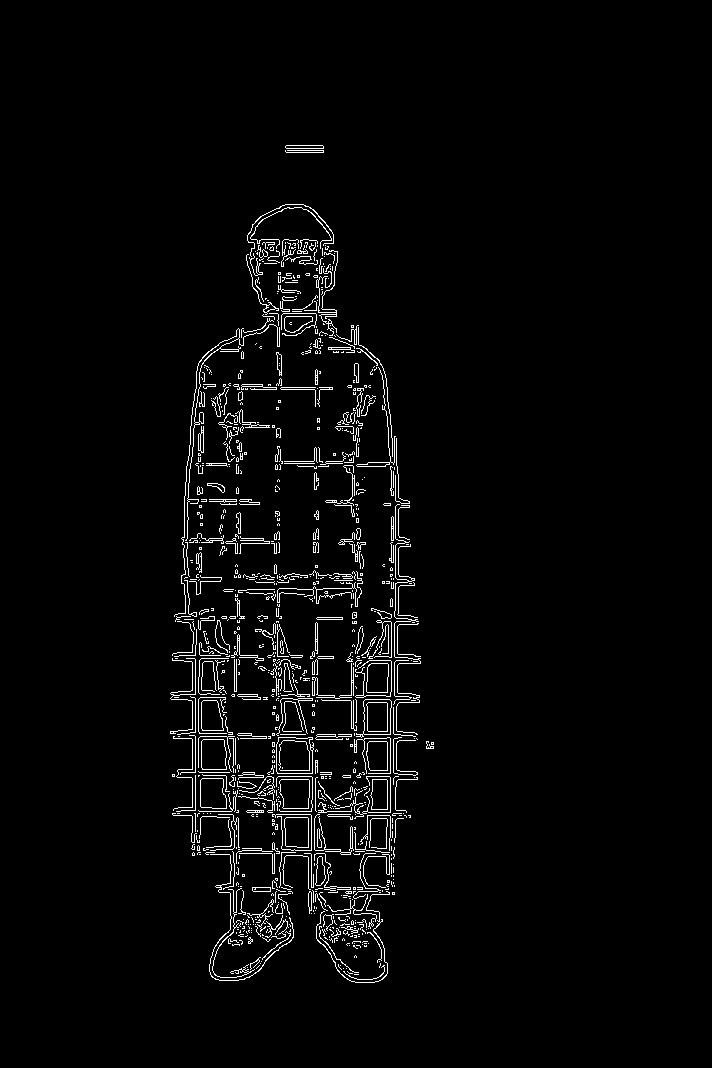
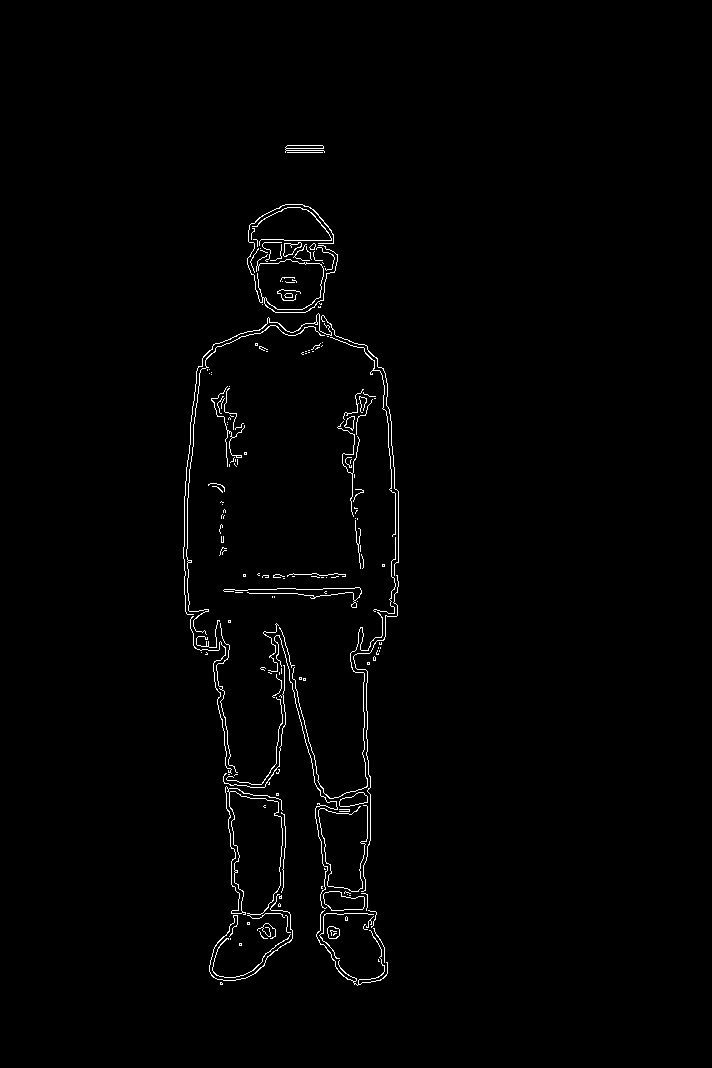
모폴로지 연산을 통한 노이즈 제거

Changed region(s): [[0.2472, 0.4635, 0.5871, 0.927], [0.2781, 0.2163, 0.5562, 0.4635], [0.4326, 0.4326, 0.4635, 0.4635]]

diff --git a/ObjectDetect.py b/ObjectDetect.py
@@ -1,7 +1,16 @@
 import cv2
+import numpy as np
 import unittest2 as unittest
 from matplotlib import pyplot as plt
 import ColorDetect
+
+def Show(image,key=0):
+    cnt = len(image)
+    print cnt
+    for k in range(cnt):
+        string = 'image' + str(k)
+        cv2.imshow(string, image[k])
+    cv2.waitKey(key)
 
 def DetectObjectFromImage(beforeImage, afterImage):
     beforeGrayImage = cv2.imread(beforeImage, 0)
@@ -13,6 +22,11 @@ def DetectObjectFromImage(beforeImage, afterImage):
     mask = ColorDetect.ColorDetectFromImage(beforeImage)
 
     # plt.imshow(afterGrayImage)
+
+    kernel = np.ones((7, 7), np.uint8)
+    beforeGrayImage = cv2.morphologyEx(beforeGrayImage,cv2.MORPH_OPEN,kernel)
+    afterGrayImage = cv2.morphologyEx(afterGrayImage,cv2.MORPH_OPEN,kernel)
+    Show([beforeGrayImage,afterGrayImage])
 
     differenceBetweenLoadedImages = cv2.absdiff(beforeGrayImage, afterGrayImage)
 
